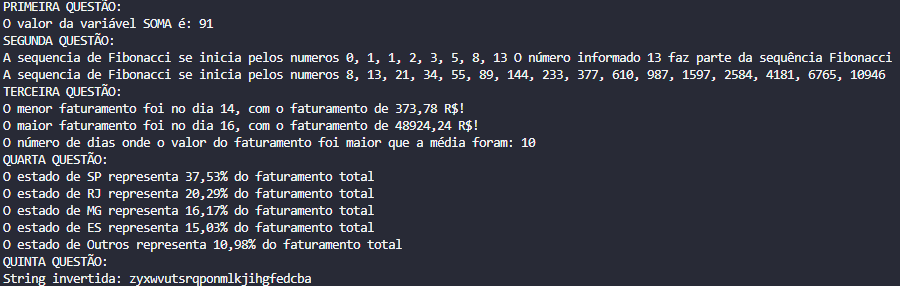
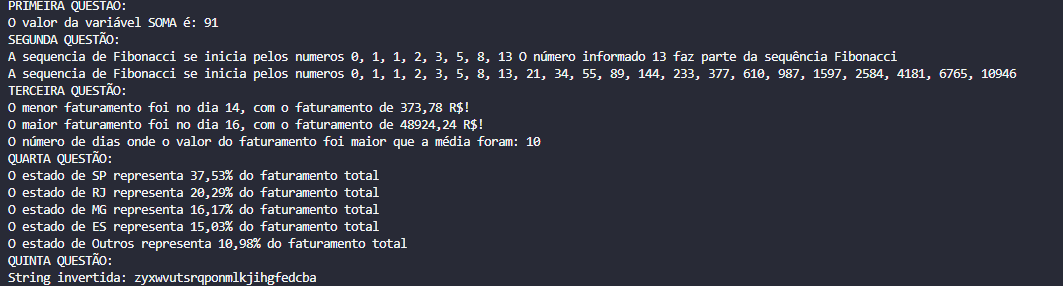
changing print order

Changed region(s): [[0.0, 0.0, 0.9956, 1.0]]

diff --git a/src/br/com/targetsistemas/SegundaQuestao.java b/src/br/com/targetsistemas/SegundaQuestao.java
@@ -2,13 +2,10 @@ package br.com.targetsistemas;
 
 public class SegundaQuestao {
 
-    private int primeiroNumero = 0;
-    private int segundoNumero = 1;
-
-
     // Método para verificar se o número digitado faz parte da sequência Fibonacci.
     public void verificarPresencaNaFibonacci(int numeroProcurado) {
-
+        int primeiroNumero = 0;
+        int segundoNumero = 1;
         // if para descobrir se o numero informado é 0 ou 1 (O Loop é iniciado pelo terceiro numero da sequência fibonacci).
         if(numeroProcurado == primeiroNumero) {
             System.out.printf("O numero informado %d é o primeiro da sequência Fibonacci", 
@@ -48,6 +45,8 @@ public class SegundaQuestao {
 
     // Método para exibir a sequência Fibonacci até o limite especificado.
     public void exibirSequenciaFibonacci(int limite) {
+        int primeiroNumero = 0;
+        int segundoNumero = 1;
 
         System.out.printf("A sequencia de Fibonacci se inicia pelos numeros %d, %d, ", primeiroNumero, segundoNumero);
 
